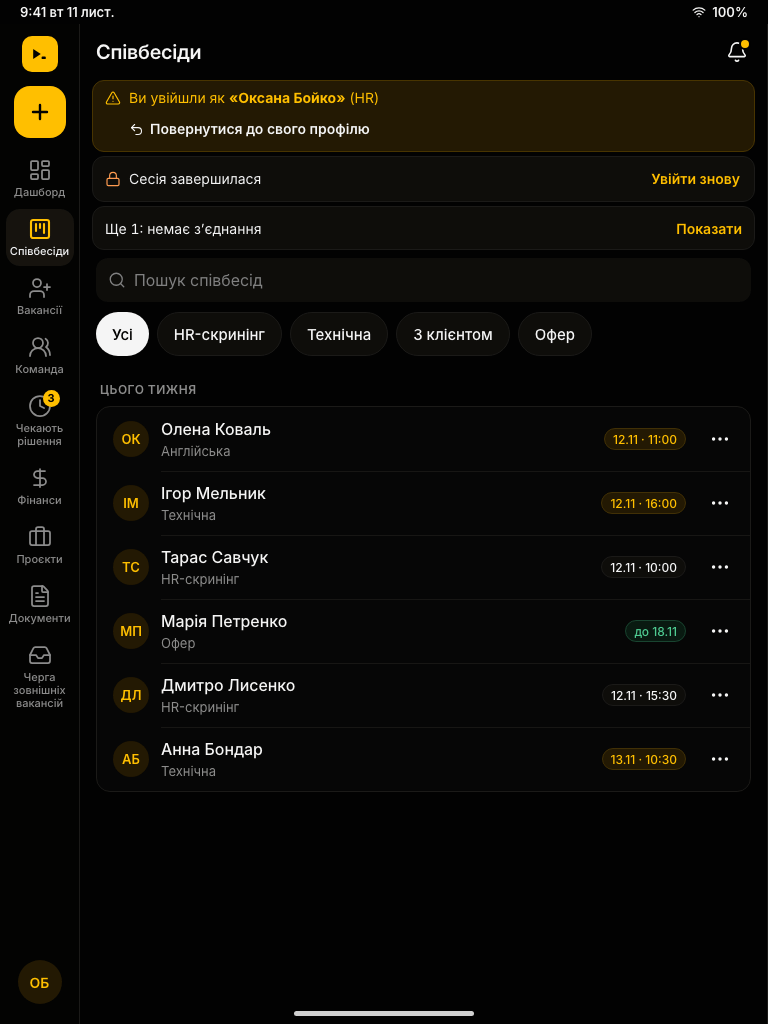
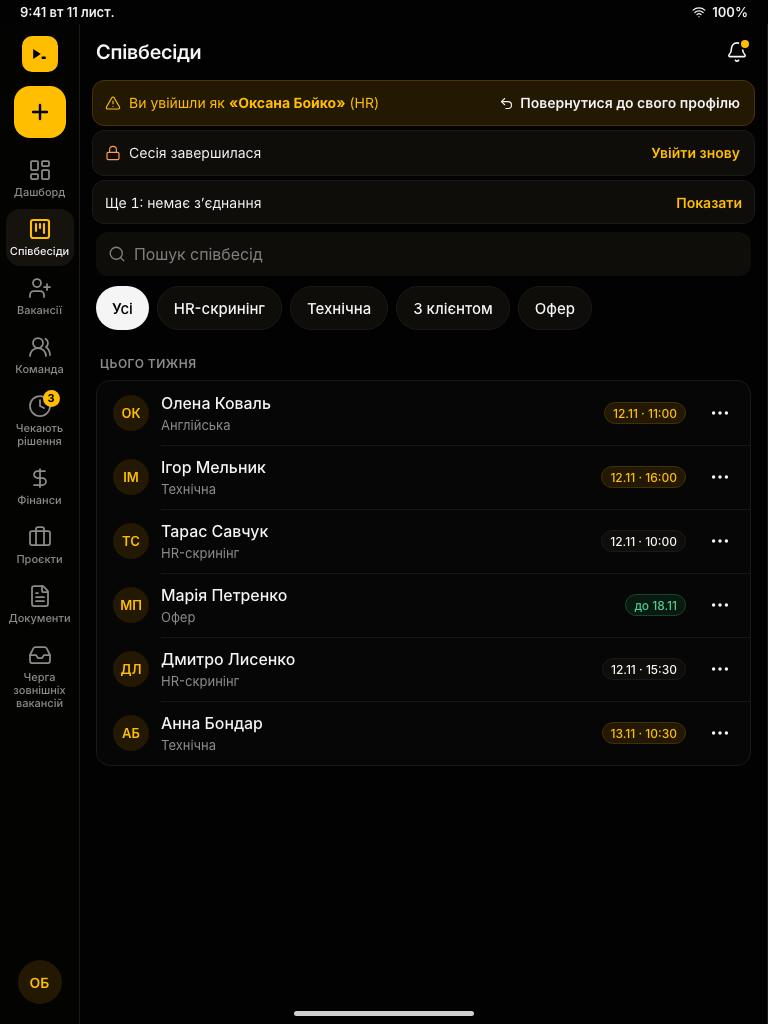
wip: design council r6 — lows R5-18, R5-24..R5-27, R5-31, R5-32, R5-34

diff --git a/docs/design/screens/_foundation/primitives-v2.md b/docs/design/screens/_foundation/primitives-v2.md
@@ -424,7 +424,7 @@ the list after the server confirms, not before.
 
 **Uploads** (`upload-states-375`): per-file row with a progress ring (`role="progressbar"`) and a 44 px cancel ✕ (uploading
 62%, compressing), done («Готово» with a check), and failed (the reason wraps; 44 px «Інший файл» for a
-rejected file, «Повторити» for a dropped connection). A global pill «Завантаження 2 чеків · 40%» (the ring is the
+rejected file, «Повторити» for a dropped connection). A file name wraps to its second line before it middle-ellipsizes (R5-31): the ellipsis appears only when two lines are full. A global pill «Завантаження 2 чеків · 40%» (on a phone, where the pill shares the row with the FAB slot, the short form «2 чеки · 40%», R5-31; the ring is the
 `progressbar`; a hidden `role="status"` says «Почалося завантаження 2 чеків» once, then only finished /
 failed; 44 px chevron) stays above the tab bar on any screen while uploads run.
 On a phone it sits left of the FAB (inset 12 left, 80 right, 16 above the tab bar; foundation §3), as does the undo toast. On a Фінанси phone the docked create button (D-8, §12 «Create entry») takes the FAB’s place, so the pill and the toast span the width there (inset 12 both sides, 16 above the dock) and stack in that slot. On tablet and desktop it takes the one floating corner, bottom-right, 24 px from
@@ -493,7 +493,9 @@ token names. The net-profit chart follows the period control and the table filte
 
 **Pull-to-refresh** (`ptr-*`, drawn with the tab bar so the scroller bounds are honest): pulling
 (arrow), armed at 64 px (arrow rotates 180°, turns yellow; no haptics — iOS Safari has none), refreshing (spinner, content held at 50 px), done («Оновлено щойно», 1 s, then collapses).
-Only on tab-root lists. Under reduced motion the arrow does not rotate; the state text changes instead.
+Only on tab-root lists **of the phone layout (< 640, R5-24)**; the rail (640–1023) and sidebar (≥ 1024)
+layouts have no pull-to-refresh: their lists refetch on window focus, on route entry and on the poll; the
+manual refresh there is the browser's own reload (the queries refetch on mount), so no extra control is drawn. Under reduced motion the arrow does not rotate; the state text changes instead.
 Rules from spec §4.2: the gesture lives on the **list scroller only** and **refetches that list's query**
 (other queries on the screen are untouched); it **never reloads the page**; it is **off while a sheet is
 open**. iOS Safari's own page pull-to-refresh is not reliably disabled by `overscroll-behavior`, so Wave 0
@@ -762,6 +764,10 @@ The only text that states how a row wraps, truncates, selects or reserves space.
 - **Slot:** phone, under the top bar and above the large title (`banner-stack-375`); tablet, at the top
   of the list pane (`banner-stack-768`); desktop, above the page toolbar inside main
   (`banner-stack-1440`). The banners push content down; they never float over it.
+- **Anatomy at ≥ 640 (R5-32, one shape for every banner):** icon, title and text on the left, the
+  action buttons on the right on the same line; when the text needs a second line the actions stay
+  right, vertically centred, and only the text wraps (`banner-stack-768`, `banner-stack-1440`). On a phone
+  the actions take their own row under the text.
 - **Order, by severity (R1-19):** impersonation is pinned first; «Сесія завершилася» is second and never folds; then the newest of the rest (offline, terms of service). **Two show**; the rest fold into one 44 px button «Ще {n}: {title of the newest folded}» / «Показати» with `aria-expanded`, which expands in place. The page-kill dialog is not part of the stack (§12 «Page kill dialog»).
 - **Colour:** a banner never uses the yellow unread dot. Where the navigation marks something that needs
   action, it uses the red needs-attention dot (`--destructive`), the same dot as a money draft.
@@ -1025,7 +1031,7 @@ stands in quotes or before a colon («Видалити транзакцію «О
 | `notifications-r4.1`           | Notifications (r4)                 | Співбесіду призначено · Договір підписано · Транзакцію змінено · Запит на виплату чекає рішення · Нові у черзі зовнішніх вакансій · Транзакцію «{title}» оновлено                                                                                                                                                                                                                                                                                                                                                                                                                                                                                                                                                                                                                                                                                                                                                                                                                                                                                                                                                                          | Interview scheduled · Contract signed · Transaction changed · A payout request awaits a decision · New in the external vacancy queue · Transaction «{title}» updated                                                                                                                                                                                                                                                                                                                                                                                                                                                                                                                                                                                                                                                                                                                                                                                                                                                                                                                                                                                                                          |             |
 | `notification-delete-failed.1` | Notification delete failed (R4-09) | Не вдалося видалити сповіщення                                                                                                                                                                                                                                                                                                                                                                                                                                                                                                                                                                                                                                                                                                                                                                                                                                                                                                                                                                                                                                                                                                             | Couldn't delete the notification                                                                                                                                                                                                                                                                                                                                                                                                                                                                                                                                                                                                                                                                                                                                                                                                                                                                                                                                                                                                                                                                                                                                                              | interaction |
 | `cmd-k-and-shortcuts.1`        | Cmd+K and shortcuts                | Палітра команд · Дії · Перехід · Загальні · Списки · Відкрити рядок · Наступний рядок · Попередній рядок · Закрити панель або діалог · Згорнути бічну панель · Змінити етап картки · вибір · виконати · закрити · потім · усі скорочення · ця сторінка · налаштування · Esc закрити · ↑ ↓ чернетки · Клавіші без ⌘/Ctrl. Ніколи не спрацьовують у текстовому полі. Налаштування зберігається на цьому пристрої.                                                                                                                                                                                                                                                                                                                                                                                                                                                                                                                                                                                                                                                                                                                            | Command palette · Actions · Go to · General · Lists · Open row · Next row · Previous row · Close the panel or dialog · Collapse the sidebar · Change the card's stage · select · run · close · then · all shortcuts · this page · settings · Esc close · ↑ ↓ drafts · Keys without ⌘/Ctrl. They never fire in a text field. The setting is kept on this device.                                                                                                                                                                                                                                                                                                                                                                                                                                                                                                                                                                                                                                                                                                                                                                                                                               |             |
-| `forms-and-profile.1`          | Forms and profile                  | Ім’я та прізвище · Email · Email для входу · Робочий email · Телефон · Роль · Мова · Українська · Прив’язаний до Google-акаунта · Роль змінює адміністратор · На цю адресу прийде запрошення · Наприклад, Ірина Мельник · Для зв’язку з командою · Редагувати профіль · Редагувати транзакцію · Введіть час від 00:00 до 23:59 · Жовтень уже закрито. Оберіть дату від 1 листопада. · Додати · Зберегти · Відкрити · Переглянути · Перевести · Завершити · Залишити · Видалити… · ОК                                                                                                                                                                                                                                                                                                                                                                                                                                                                                                                                                                                                                                                       | Full name · Email · Sign-in email · Work email · Phone · Role · Language · Ukrainian · Linked to the Google account · An administrator changes the role · The invitation goes to this address · For example, Iryna Melnyk · For the team to reach you · Edit profile · Edit transaction · Enter a time from 00:00 to 23:59 · October is already closed. Pick a date from 1 November. · Add · Save · Open · View · Move · Finish · Keep · Delete… · OK                                                                                                                                                                                                                                                                                                                                                                                                                                                                                                                                                                                                                                                                                                                                         |             |
+| `forms-and-profile.1`          | Forms and profile                  | Ім’я та прізвище · Email · Email для входу · Робочий email · Телефон · Роль · Мова · Українська · Прив’язаний до Google-акаунта · Роль змінює адміністратор · На цю адресу прийде запрошення · Наприклад, Ірина Мельник · Для зв’язку з командою · Редагувати профіль · Редагувати транзакцію · Введіть час від 00:00 до 23:59 · Жовтень уже закрито. Оберіть дату від 1 листопада. · Додати · Зберегти · Відкрити · Переглянути · Перевести · Завершити · Залишити · Видалити · ОК | Full name · Email · Sign-in email · Work email · Phone · Role · Language · Ukrainian · Linked to the Google account · An administrator changes the role · The invitation goes to this address · For example, Iryna Melnyk · For the team to reach you · Edit profile · Edit transaction · Enter a time from 00:00 to 23:59 · October is already closed. Pick a date from 1 November. · Add · Save · Open · View · Move · Finish · Keep · Delete · OK |             |
 | `quick-add-r4.1`               | Quick add (r4)                     | Ім’я та етап · Ім’я, email і роль · Сума, тип і фото чека · Відкриті вакансії · Буде створено проєкт. · {name}: перевести в «Найнято»?                                                                                                                                                                                                                                                                                                                                                                                                                                                                                                                                                                                                                                                                                                                                                                                                                                                                                                                                                                                                     | Name and stage · Name, email and role · Amount, type and receipt photo · Open vacancies · A project will be created. · {name}: move to «Hired»?                                                                                                                                                                                                                                                                                                                                                                                                                                                                                                                                                                                                                                                                                                                                                                                                                                                                                                                                                                                                                                               |             |
 | `receipt-and-upload-r4.1`      | Receipt and upload (r4)            | Камера, фото або файл · Файл · Посилання · Посилання на чек · Посилання на транзакцію в блокчейн-експлорері · Для USDT потрібне посилання на транзакцію в експлорері · Чек для USDT — лише посилання на транзакцію · Замінити · Замінити посиланням · Видалити чек · Інший файл · Чек додано · Завантаження · завантаження · Завантажити · Стискаємо фото… · Зв’язок перервано на {pct} · Не вдалося завантажити: файл більший за 10 МБ · Чек не завантажився: з’єднання перервалося · чек {pct} · {n} чеки · Поки є активні завантаження, над панеллю вкладок видно один компактний рядок. Навігація не блокується. · Зведіть або розведіть пальці, щоб змінити масштаб · торкніться, щоб збільшити                                                                                                                                                                                                                                                                                                                                                                                                                                       | Camera, photo or file · File · Link · Receipt link · Link to the transaction in a blockchain explorer · USDT needs a link to the transaction in an explorer · A USDT receipt is a transaction link only · Replace · Replace with a link · Remove receipt · Another file · Receipt added · Uploading · uploading · Upload · Compressing the photo… · Connection lost at {pct} · Couldn't upload: the file is over 10 MB · The receipt didn't upload: the connection dropped · receipt {pct} · {n} receipts · While uploads run, one compact row sits above the tab bar. Navigation is never blocked. · Pinch to zoom · tap to zoom                                                                                                                                                                                                                                                                                                                                                                                                                                                                                                                                                             |             |
 | `money-save-and-drafts-r4.1`   | Money save and drafts (r4)         | Збережено {amount} · Не збережено {amount} · Зберігаємо {amount}… · Збережеться після завантаження чека · Транзакцію не надіслано · Немає з’єднання. Нічого не збережено; сума й чек залишились у формі. · Невідомо, чи транзакцію збережено · Відповідь не надійшла. Форма й чек залишились. Перевірте список: якщо транзакції там немає, її можна створити ще раз. · Повторити збереження · Перевірити список · Надіслано о {time} · надіслано {time} · Видалити чернетку · Закрити чернетку · Ще {n} чернетки · Усі чернетки ({n}) · Чернетки · Сума, поля й чек зникнуть. Цю дію не можна скасувати. · Чернетка {amount}, надіслана о {time}: після входу перевірте список, перш ніж створювати її знову.                                                                                                                                                                                                                                                                                                                                                                                                                              | Saved {amount} · Not saved {amount} · Saving {amount}… · Saves once the receipt uploads · The transaction wasn't sent · No connection. Nothing was saved; the amount and the receipt stay in the form. · Not known whether the transaction was saved · No response came. The form and the receipt are kept. Check the list: if the transaction isn't there, you can create it again. · Retry the save · Check the list · Sent at {time} · sent {time} · Delete draft · Close draft · {n} more drafts · All drafts ({n}) · Drafts · The amount, the fields and the receipt will be gone. This can't be undone. · Draft {amount}, sent at {time}: after signing in, check the list before you create it again.                                                                                                                                                                                                                                                                                                                                                                                                                                                                                  |             |

diff --git a/docs/design/foundation.md b/docs/design/foundation.md
@@ -469,7 +469,7 @@ reference widths below. Mobile-first: the base is mobile, scale up with `sm` / `
   | **Page kill** (tab closed, OS kill, crash)                                                                                                                                                                         | At the next boot: **one alert per phase**, never one per marker (the boot rules below; `state-page-kill-375.png`, `alert-pagekill-sent-375.png`). Each names the marker's signed amount and time (D-5); `sent` **offers no resubmit**                                                                                                                                                                                                                                                                                                                                                                                                                                                                                                                                                                                                                                                                                                                                                                                                                                                                                                                                                                                                                                                                                                                                                                                                               | `armed`: nothing, the request never left. `failed`: nothing was saved. `sent`: the one create; it may have committed. Nothing is re-sent                                                                                                                                                                                                                                                       | «Зрозуміло» removes every marker of that phase and the alert (on `sent` the button reads «Закрити» and keeps the markers until the late-commit guard's refetch succeeds); on `sent`, «Оновити список» / «Відкрити Фінанси» also opens the check sheet «Нові записи» filtered from the earliest `t − 5 хв` with the same server-time test: a row created before `earliest t + offset − 5 s` reads «раніше · 14:29»; when `t` is not today every boot time carries the date («10.11 о 14:32», «з 10.11 14:27», «раніше · 10.11 14:29»); the marker holds the signed amount and currency, so a later row of the same signed amount and currency is tagged «схожа · та сама сума», never «збіг» (description, type and project are not stored). **Late-commit guard:** app-owned from boot, sheet open or not (the boot rules below): «Закрити» until its background refetch at `max(boot, latest sent t + 160 s)` succeeds, then «Зрозуміло». No draft form is behind it: the sheet names the time, not an amount, and offers no resubmit (`primitives-v2/check-sheet-boot-375.png`); a failed refetch there reuses the «Не вдалося оновити список» alert with «Повторити» |
   | **Close a failed or unknown draft**                                                                                                                                                                                | The leading control reads **«Згорнути»**; a drag down and a scrim tap do the same. No confirm: nothing is lost (`primitives-v2/save-failure-offline-375.png`, `save-failure-unknown-375.png`)                                                                                                                                                                                                                                                                                                                                                                                                                                                                                                                                                                                                                                                                                                                                                                                                                                                                                                                                                                                                                                                                                                                                                                                                                                                       | Nothing. The marker is unchanged: a `failed` or `sent` marker survives a page kill, so the next boot still reports the draft                                                                                                                                                                                                                                                                   | The sheet closes and the draft stays: the pill and its pinned row reopen it                                                                                                                                                                                                                                                                                                                                                                                                                                                                                                                                                                                                                                                                                                                                                                                                                                                                                                                                                                                                                                                                                             |
   | **Explicit discard**: the 44 px control «Видалити чернетку» under the primary of a **failed or unknown** draft; **unavailable only while its request is in flight**                                                | A confirm that names the amount: «Видалити чернетку −1 250,50 USD?» with «Видалити» and «Залишити» (`primitives-v2/confirm-discard-draft-375.png`). For an unknown draft the description adds «Якщо транзакцію вже збережено, вона залишиться в списку.»                                                                                                                                                                                                                                                                                                                                                                                                                                                                                                                                                                                                                                                                                                                                                                                                                                                                                                                                                                                                                                                                                                                                                                                            | Nothing; any upload is aborted. The marker is removed                                                                                                                                                                                                                                                                                                                                          | «Видалити»: the draft, its pill state, its row and its marker are gone. «Залишити»: back to the draft                                                                                                                                                                                                                                                                                                                                                                                                                                                                                                                                                                                                                                                                                                                                                                                                                                                                                                                                                                                                                                                                   |
-  - **The pill is one button (R4-15).** Its whole body opens the draft (or the record); the trailing «Відкрити…» of its second line is that button's label, drawn in accent ink, and the status before it («62% ·», a time) stays muted (`upload-pill-*-375`). A saved pill's ✕ is the only other control in it.
+  - **The pill is one button (R4-15, R5-34).** Its whole body opens the draft (or the record); a saved pill's 44 px ✕ «Закрити» is a **sibling** of that button inside the pill's box, never nested in it (two tab stops: the body, then ✕); the trailing «Відкрити…» of its second line is that button's label, drawn in accent ink, and the status before it («62% ·», a time) stays muted (`upload-pill-*-375`). A saved pill's ✕ is the only other control in it.
   - **One pill slot, one precedence.** The pill shows the highest state among all drafts: **unknown >
     failed > in flight > armed > saved**. It names the amount when one draft is in that state and a
     count when more: in flight «Зберігаємо 2 транзакції…»; armed «Збережеться 2 транзакції» / «Після завантаження чеків · Відкрити» (never one merged percentage: each pinned row shows its own); saved «Збережено 2 ·

diff --git a/docs/design/screens/_foundation/shell-v2.md b/docs/design/screens/_foundation/shell-v2.md
@@ -69,7 +69,11 @@ tab bar holds **4 destinations + «Ще»**. «Ще» holds everything else, gro
   screen has it) on the right. **Magnifier (R3-22):** on a screen with an inline search field the bar
   carries the magnifier at rest and collapsed, always left of the bell (the bell never leaves the bar); a
   tap scrolls the list to the top and focuses the inline field, so it is a shortcut to that one field, never
-  a second search (`listrow-sticky-320`, `ptr-pulling-375`).
+  a second search (`listrow-sticky-320`, `ptr-pulling-375`). **Where search lives when scrolled (R5-26, the
+  one rule):** the inline field scrolls with the list on every class (phone and tablet list pane); scrolled,
+  the way back is the bar's magnifier on a phone, and on a tablet a 44 px magnifier that appears in the
+  pane header left of the bell once the field has scrolled out; both «scroll to top + focus the field». A screen without an inline search (Статистика, Дашборд) draws no magnifier
+  (`chart-mobile-375`).
 - Pushed screen: 44 px bar, back chevron (44 × 44 `<button>`, `aria-label="Назад"`) + a 17/22 title
   **centred on the bar, not on the space left over** (iOS): the title is absolutely positioned and
   inset on both sides by the wider side, the back button or the trailing actions (`--topbar-side`,
@@ -81,7 +85,7 @@ tab bar holds **4 destinations + «Ще»**. «Ще» holds everything else, gro
 
 ### Quick-add FAB
 
-- 56 px yellow circle (context «+», §1), bottom right, inset 16, 16 px above the tab bar. **A money list has no FAB** (R1-04, D-8): on a Фінанси phone the one create entry is the docked 48 px «Нова транзакція» button in a 64 px strip above the tab bar, with the red dot or count when drafts need attention, so nothing floats over an amount (primitives-v2 §12 «Create entry»). Hidden while
+- 56 px yellow circle (context «+», §1), bottom right, inset 16, 16 px above the tab bar. **A money list has no FAB** (R1-04, D-8): on a Фінанси phone the one create entry is the docked 48 px «Нова транзакція» button in a 64 px strip above the tab bar (under a 600 px viewport a compact 44 px button in a 52 px strip, R5-27: `tabbar-admin-320`), with the red dot or count when drafts need attention, so nothing floats over an amount (primitives-v2 §12 «Create entry»). Hidden while
   the keyboard is open and while a sheet is open. **Never dimmed or disabled**, offline included.
 - **FAB and pill on scroll (the one rule; R5-06).** Scrolling down slides the FAB (where there is one) and a plain upload pill out below the tab bar;
   they come back on scroll-up or after **1 s** without scrolling. **An unacknowledged money result never
@@ -264,7 +268,10 @@ tab bar holds **4 destinations + «Ще»**. «Ще» holds everything else, gro
   and is trapped. **R4-04:** it is bounded to the safe viewport (24 px above and below) and its rows
   scroll inside it under a fixed header (`tablet-rail-more-short-768`, 768 × 600; `measure.mjs` `reach`).
   It closes by its own controls only: ✕, a scrim tap (a tap on the dimmed «Ще» lands on the scrim, so it
-  closes like any scrim tap), Esc and system back; focus returns to «Ще».
+  closes like any scrim tap), Esc and system back; focus returns to «Ще». **The current route inside «Ще»
+  (R5-25):** when the rail's height (a rotation, a short window) pushes the current destination into the
+  overflow, the «Ще» item takes the active cue (the same `--raised` tile and yellow icon) and the row
+  inside the dialog carries `aria-current="page"` and the selected-row bar.
 
 ---
 
